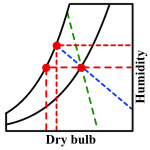
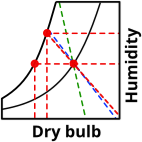
minor changes

Changed region(s): [[0.0, 0.0, 1.0, 1.0]]

diff --git a/README.md b/README.md
@@ -77,30 +77,30 @@ Note that relative humidity is not the ratio of humidity to saturation humidity.
 
 ### Specific Enthalpy & Specific Volume
 
-Consider the adiabatic humidification of humid air with water. The amount of water is the difference of humidity between the outlet and the inlet gaseous phases. The amount of dry gas is unchanged. That is all about material balances. Taking water at the outlet temperature as reference for enthalpy, the enthalpies per mass of dry air, or *specific enthalpy*, of the three streams are:
+Consider the adiabatic saturation of humid air with water. The amount of water is the difference of humidity between the outlet and the inlet gaseous phases. The amount of dry gas is unchanged. That is all about material balances. Taking water at the outlet temperature as reference for enthalpy, the enthalpies per mass of dry air, or *specific enthalpy*, of the three streams are:
 
 $$
-h_1 = c_{dry}\ (T_1 - T_3) + H_1\ (c_{vap}\ (T_1 - T_3) + \lambda_3)
-$$
-
-$$
-h_2 = c_{vap}\ (H_3 - H_1)\ (T_2 - T_3)
+h = c_{dry}\ (T - T_{sat}) + H\ (c_{vap}\ (T - T_{sat}) + \lambda_{sat})
 $$
 
 $$
-h_3 = \lambda_3\ H_3
+h_{liq} = c_{liq}\ (H_{sat} - H)\ (T_{liq} - T_{sat})
 $$
 
-where $c_{dry}$ and $c_{vap}$ are the heat capacities of the dry gas and of water and $\lambda_3$ is the vaporization heat at the outlet temperature. All together, the energy balance gives
+$$
+h_{sat} = \lambda_{sat}\ H_{sat}
+$$
+
+where $c_{dry}$ and $c_{vap}$ are the heat capacities of the dry gas and of water and $\lambda_{sat}$ is the vaporization heat at the outlet temperature. All together, the energy balance gives
 
 $$
-{{H_1 - H_3} \over {T_1 - T_3}} = {c_1 \over {-\lambda_3 + c_{vap}\ (T_2 - T_3)}}
+{{H - H_{sat}} \over {T - T_{sat}}} = {c \over {-\lambda_{sat} + c_{vap}\ (T_{liq} - T_{sat})}}
 $$
 
 where $c_1$ is the heat capacity of the inlet humid air,
 
 $$
-c_1 = c_{dry} + c_{vap}\ (H_3 - H_1)
+c = c_{dry} + c_{vap}\ (H_{sat} - H)
 $$
 
 As the vaporization heat is usually much higher than the sensible heat, the variation of humidity in the gaseous phase is fairly proportional to its variation in temperature, producing a fairly straight line in a plot of humidity and temperature.
@@ -170,11 +170,11 @@ As the saturation of air in ice and water is negligible, the water vapor pressur
 The specific volume and the specific enthalpy (volume and enthalpy of the gaseous phase per unit of mass of dry air) are given by
 
 $$
-v = {{0.287042\ (t + 273.15)\ (1 + 1.607858 W)} \over p}
+v = {{0.287042\ (t + 273.15)\ (1 + 1.607858\ W)} \over p}
 $$
 
 $$
-h = 1.006\ t + W\ (2501 + 1.86 t)
+h = 1.006\ t + W\ (2501 + 1.86\ t)
 $$
 
 with $v$ given in m<sup>3</sup>/kg of dry air, $h$ in kJ/kg, dry bulb temperature $t$ in °C, and total pressure $p$ in kPa.
